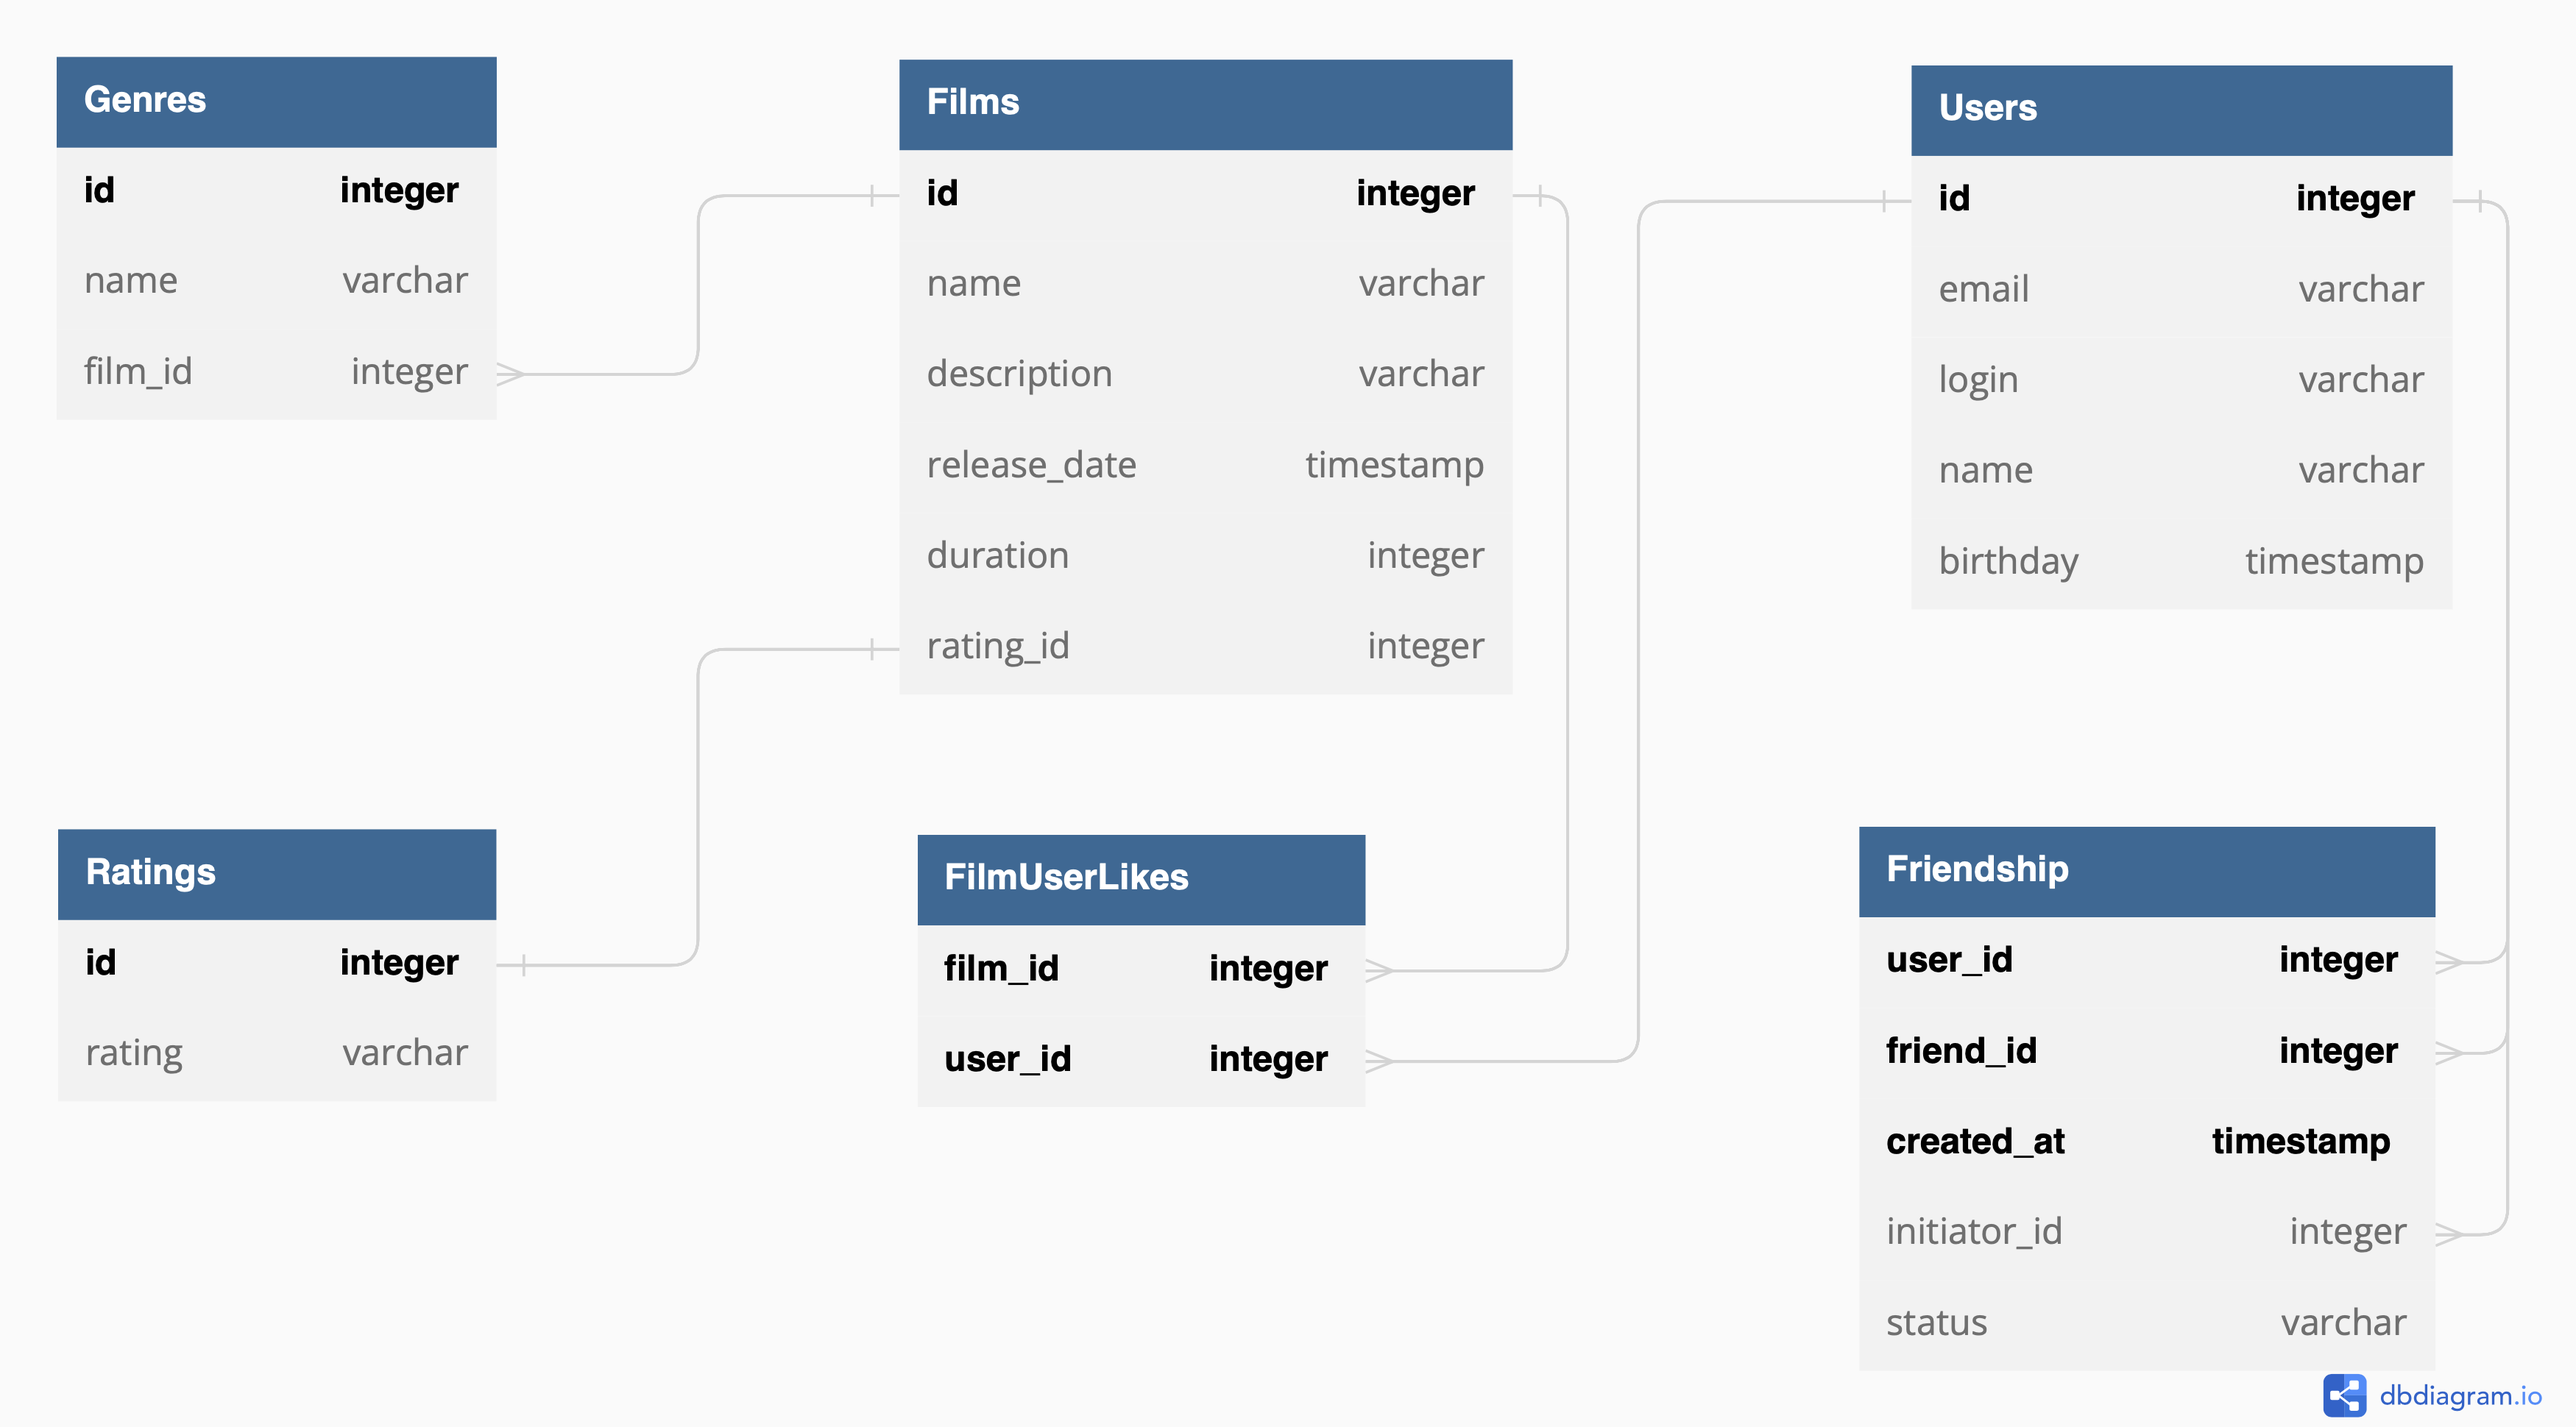
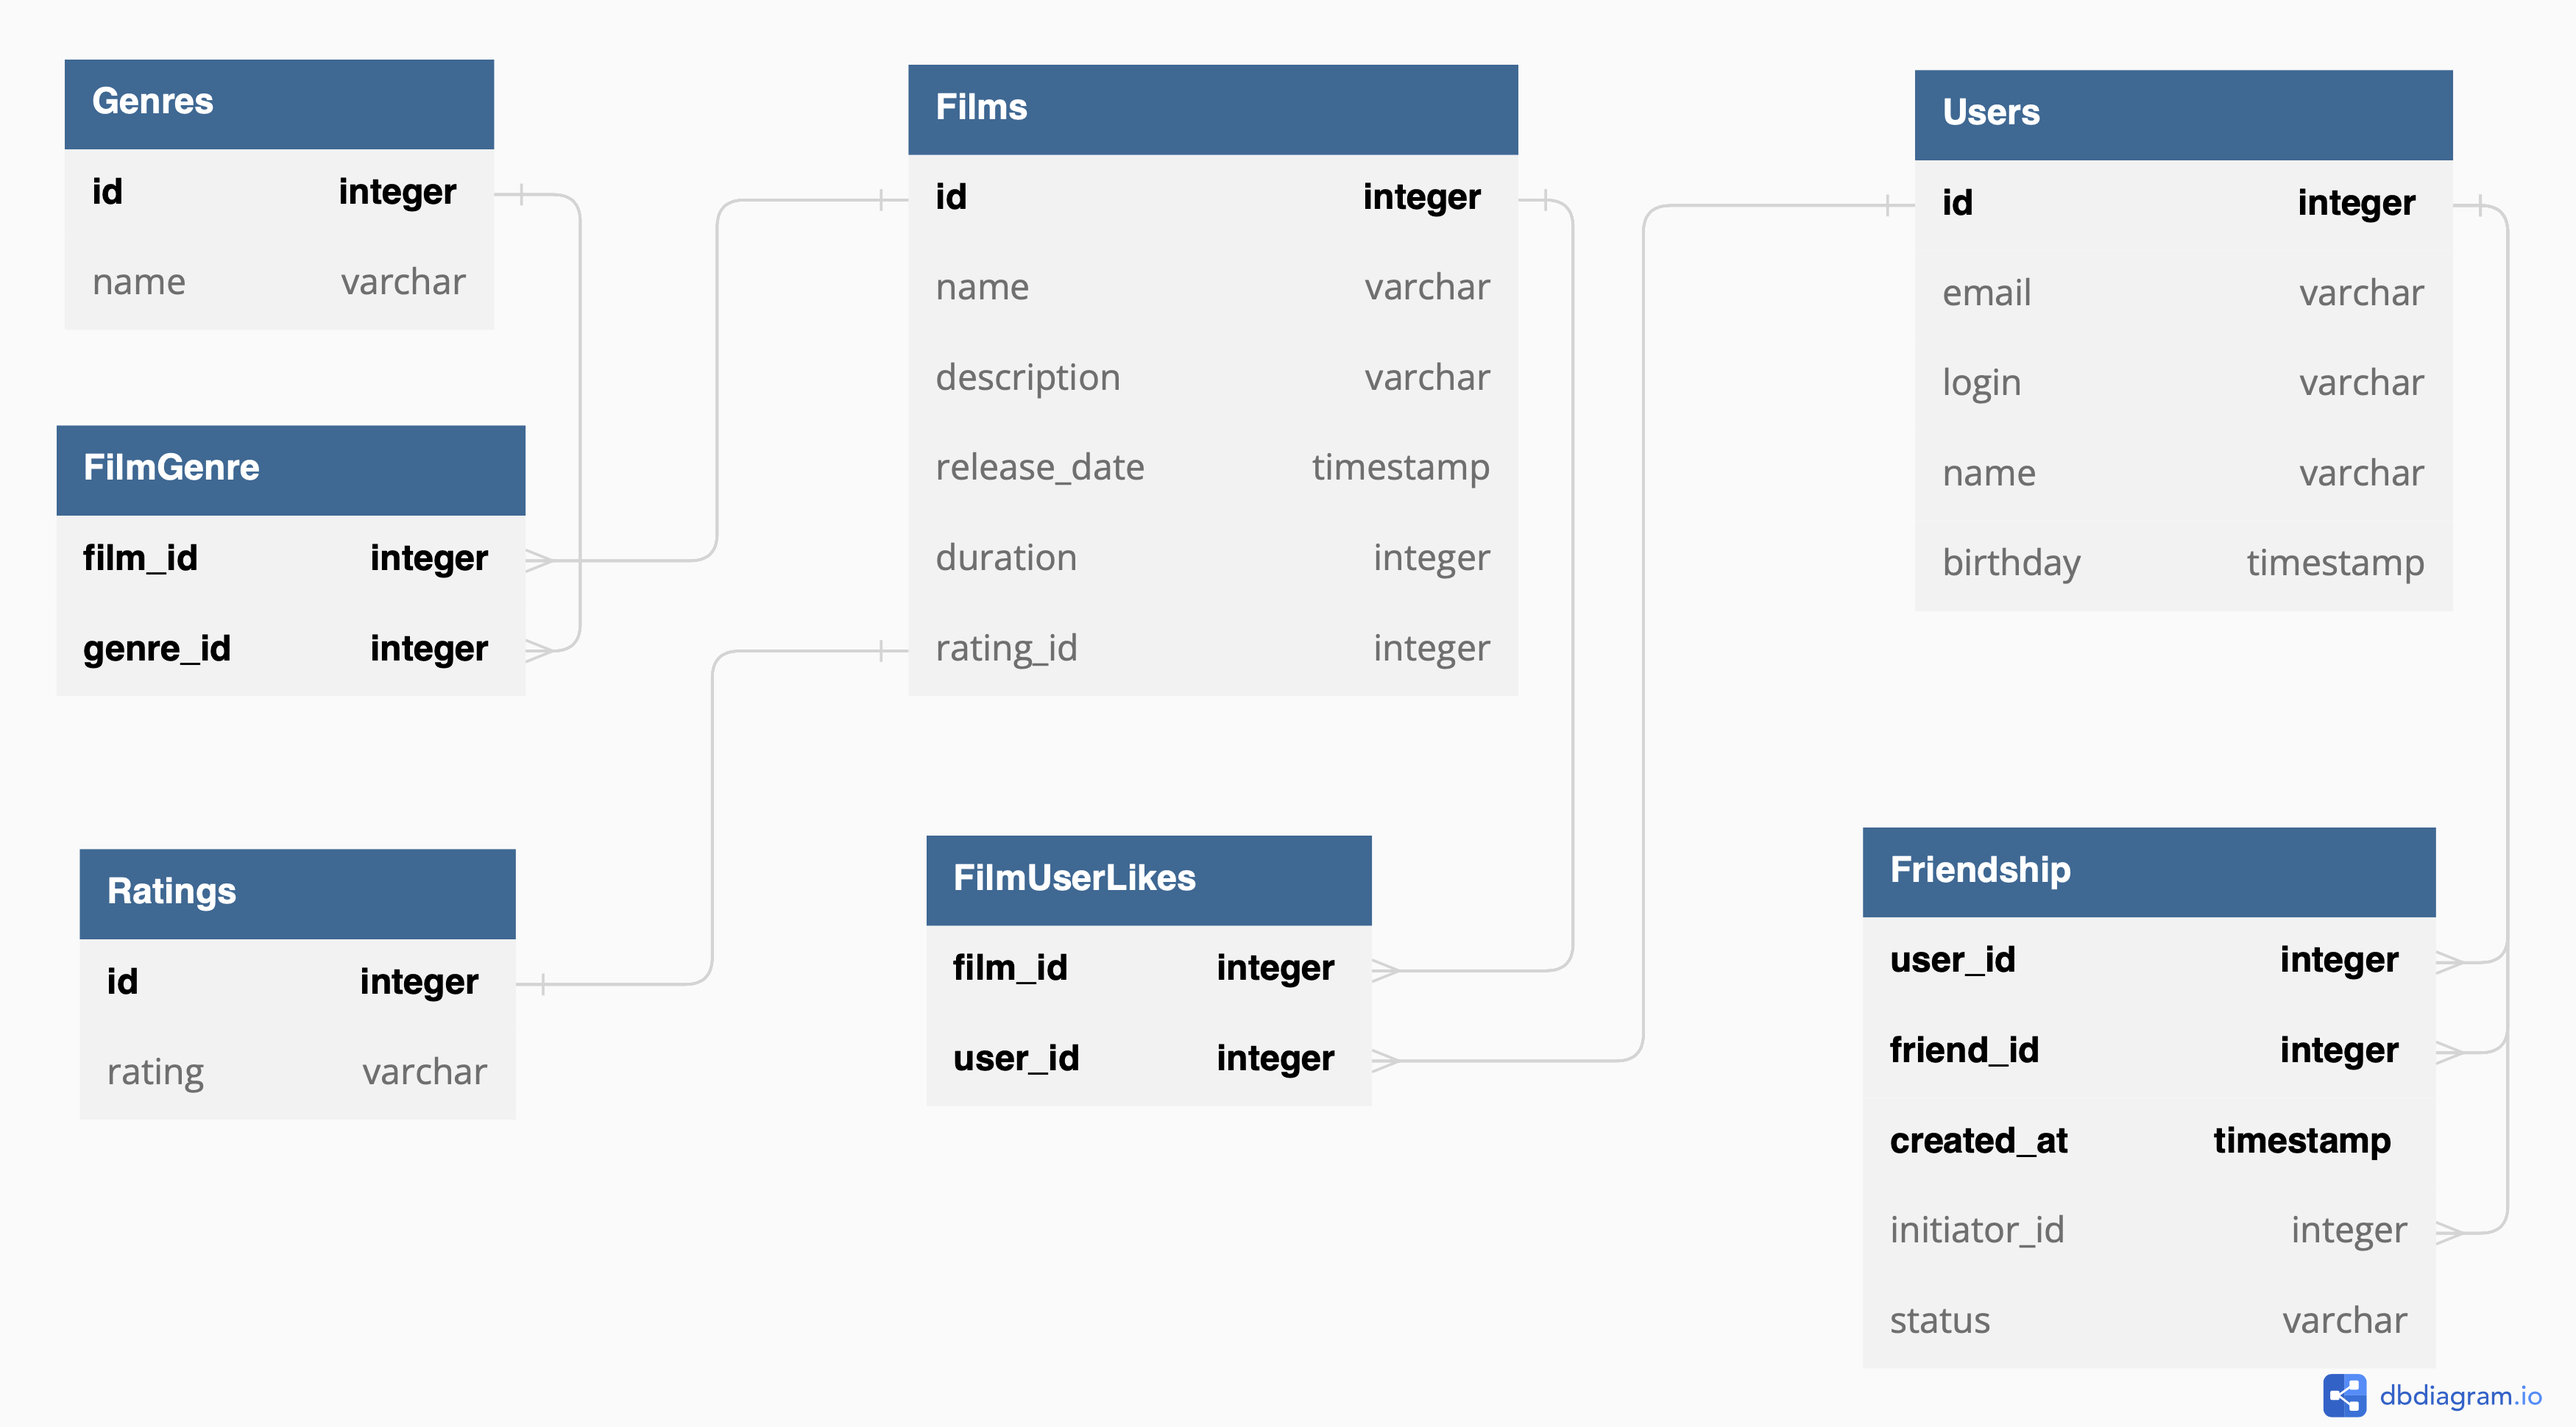
fix: update diagram

diff --git a/README.md b/README.md
@@ -1,4 +1,9 @@
 # java-filmorate
-Template repository for Filmorate project.
+
+### DB Diagram of the Filmorate Project:
 
 ![DB Diagram of the Filmorate project](https://github.com/aasmc/java-filmorate/blob/genres-friends/art/diagram.png)
+
+### Films
+Таблица с фильмами связана с таблицей жанров связью один-ко-многим, то есть у одного фильма
+может быть несколько жанров.
